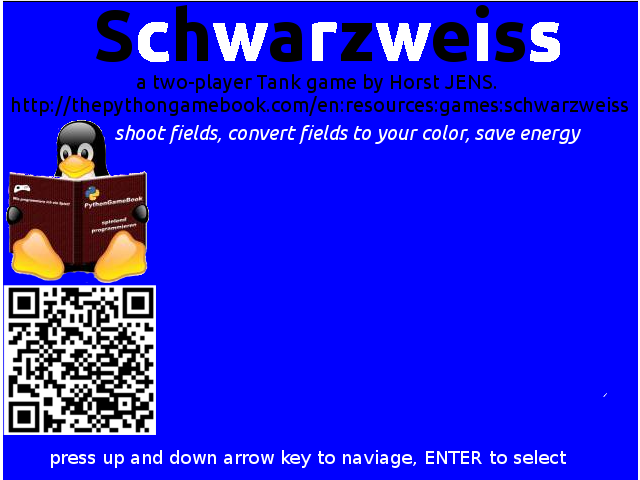
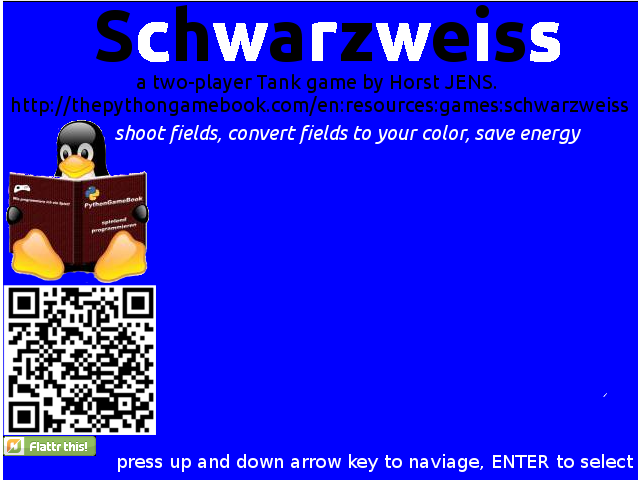
flattr button in menu pic

Changed region(s): [[0.0, 0.9062, 1.0, 1.0]]

diff --git a/schwarzweiss_start.py b/schwarzweiss_start.py
@@ -200,7 +200,7 @@ def main():
            elif mousey > 170 and mousey < 274 and mousex < 145:
                webbrowser.open_new_tab("http://thepythongamebook.com")
                cooldown = 1
-           elif mousey > 284 and mousey < 435 and mousex < 145:
+           elif mousey > 284 and mousey < 457 and mousex < 145:
                webbrowser.open_new_tab("http://flattr.com/thing/163126/schwarzweiss-game")
                      
         #Draw the scene!
